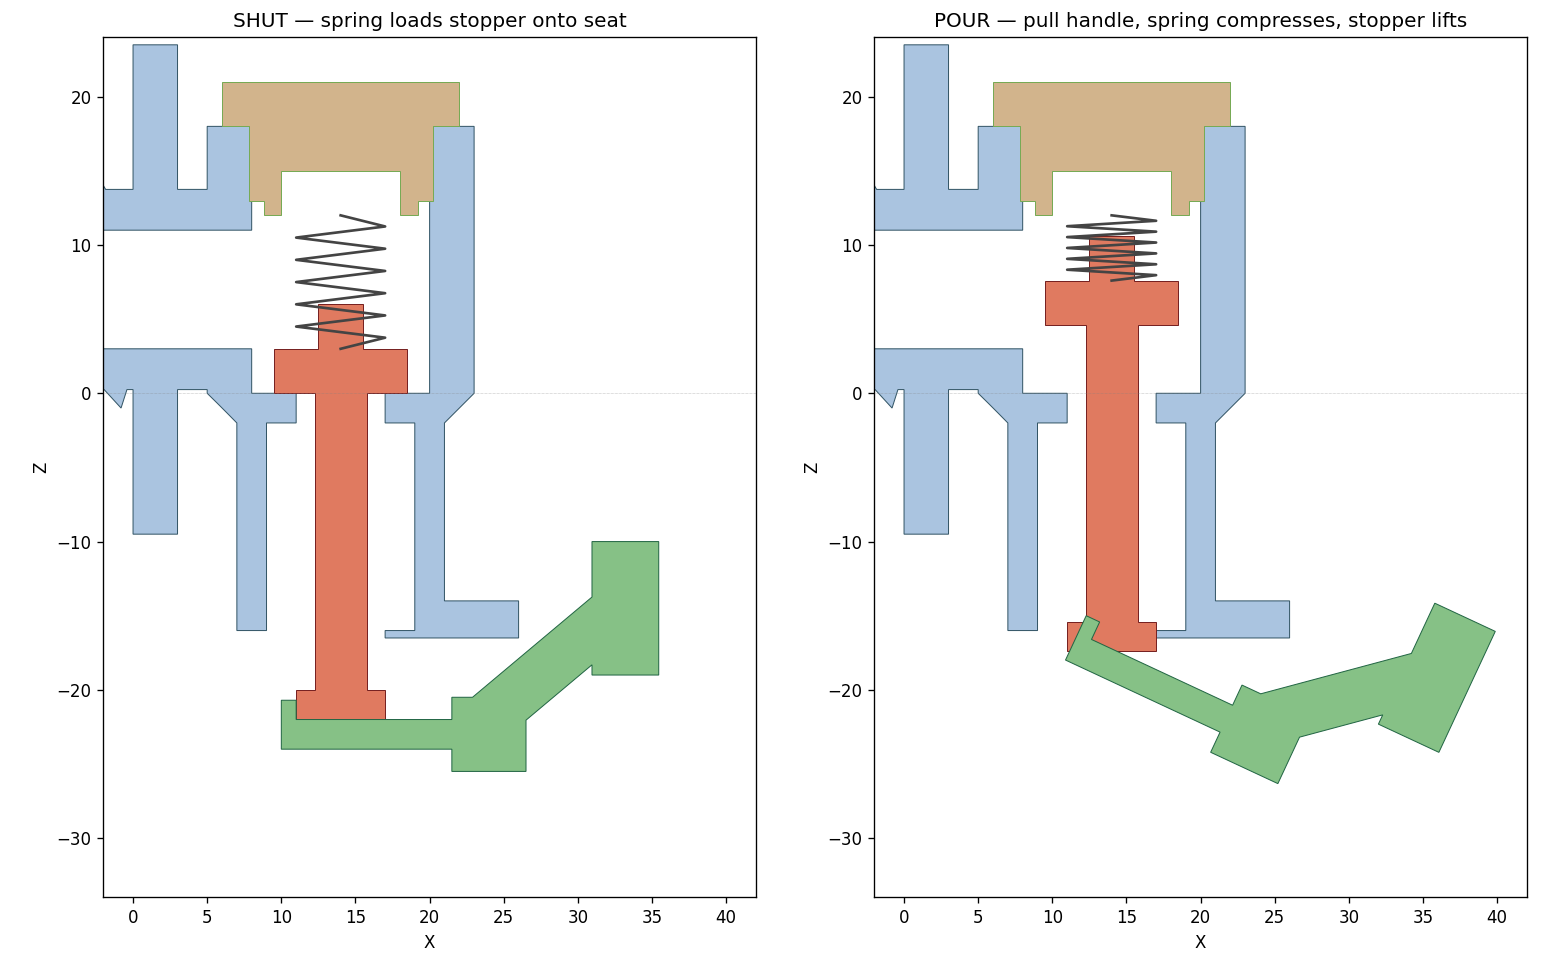
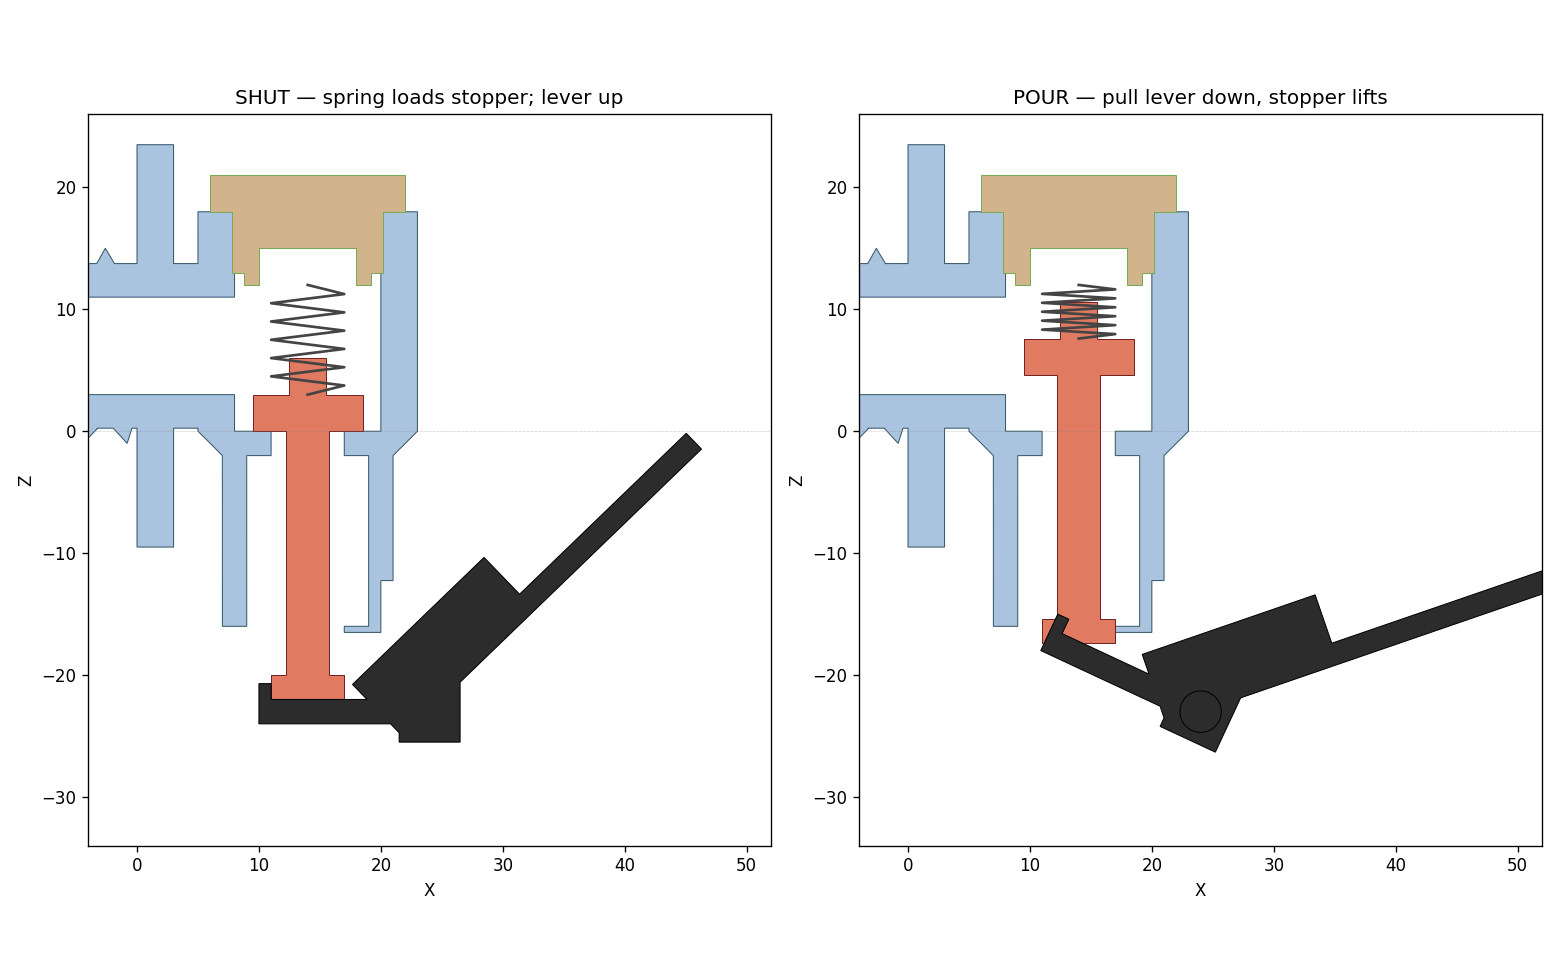
feat(pitcher-spigot): scooped tap-style lever
Reshape the boxy handle into a beverage-tap lever: a narrow neck off the
pivot (slot width, clears the yoke ears) flaring via a loft into a longer,
wide scooped paddle with a concave trough and side rails. Notch the yoke
web over the slot so the neck rises out cleanly (the ears still tie to the
spout via the web at X<21). Verified: single watertight body, pin passes
through both ears + lever, seat unaffected, zero collision across the full
lever swing.

diff --git a/projects/pitcher-spigot-valve/3d/lever.py b/projects/pitcher-spigot-valve/3d/lever.py
@@ -6,13 +6,17 @@ and the arm lifts the foot off the seat → pours. Release and the stopper's own
 weight pushes the arm back down, returning the handle up → shuts. The handle
 length gives the leverage to lift the stopper against the water above it.
 
+The handle is shaped like a beverage-tap lever: a narrow neck off the pivot
+(slot-width, so it clears the yoke ears) flaring into a wide scooped paddle.
+
 Built at the assembled position (pivot matches valve_body PIVOT_X / PIVOT_Z).
-Prints flat on its wide Y face — no supports.
+Print on its side (a wide Y face on the bed); the shallow scoop trough may want
+light support, which peels off the grip face cleanly.
 """
 
 from pathlib import Path
 
-from build123d import Align, Box, Cylinder, Pos, Rot, export_stl
+from build123d import Align, Box, Cylinder, Plane, Pos, Rectangle, Rot, export_stl, loft
 
 # ─── Parameters (mm) — pivot matches valve_body.py ──
 PIVOT_X = 24.0
@@ -36,15 +40,44 @@ arm = Pos((ARM_X0 + PIVOT_X + 0.5) / 2, 0, ARM_TOP_Z - 1) * Box(
 # slot, +X by the arm body. Low enough to clear the spout on an over-pull.
 CW = 1.3  # wall height above the arm top
 cradle_back = Pos(ARM_X0 + 0.5, 0, ARM_TOP_Z - 1 + CW / 2) * Box(1.0, 2 * ARM_HALF_Y, 2 + CW)
-# Handle: one bar tilted up-and-out, its lower end buried in the boss.
-handle = Pos(PIVOT_X + 4, 0, PIVOT_Z + 4.5) * Rot(0, -40, 0) * Box(14, 2 * ARM_HALF_Y, 3.5)
-# Paddle grip at the handle tip.
-paddle = Pos(PIVOT_X + 9.2, 0, PIVOT_Z + 8.5) * Box(4.5, 2 * (ARM_HALF_Y + 1.5), 9)
+# ── Scooped paddle handle, shaped like a beverage-tap lever ──
+# A narrow NECK comes off the pivot at slot width (so it clears the yoke ears),
+# then flares into a wide scooped head once it has risen above the ears.
+PADDLE_LEN = 34.0
+NECK_X = 15.0  # stays slot-width until here (clears the ears), then flares
+TILT = 44.0  # angle up-and-out from horizontal
+PADDLE_T = 6.0
+SCOOP_R = 12.0
+FLOOR_T = 1.8  # trough floor left under the scoop
+HALF_NECK = ARM_HALF_Y  # 3.8 — fits the yoke slot
+HALF_TIP = 8.0  # half-width at the flared tip
 
-lever = boss + arm + cradle_back + handle + paddle
+
+def _xsec(half_w):
+    return Plane.YZ * Rectangle(2 * half_w, PADDLE_T, align=(Align.CENTER, Align.MIN))
+
+
+# Loft: slot-width neck (two sections) then flare to the wide head.
+_slab = loft(
+    [
+        _xsec(HALF_NECK),
+        Pos(NECK_X, 0, 0) * _xsec(HALF_NECK),
+        Pos(PADDLE_LEN, 0, 0) * _xsec(HALF_TIP),
+    ]
+)
+# Scoop a trough into the flared head only (cylinder along the length).
+_scoop = Pos((NECK_X + PADDLE_LEN) / 2, 0, FLOOR_T + SCOOP_R) * (
+    Rot(0, 90, 0) * Cylinder(SCOOP_R, PADDLE_LEN - NECK_X)
+)
+_paddle = _slab - _scoop
+# Tilt up-and-out and bury the back in the boss.
+handle = Pos(PIVOT_X, 0, PIVOT_Z) * Rot(0, -TILT, 0) * Pos(-3, 0, 0) * _paddle
+
+lever = boss + arm + cradle_back + handle
 # Pin hole all the way through the boss — centred on Y (a rotated align=BOTTOM
-# cylinder would only drill halfway, leaving a blind hole).
-pin_hole = Pos(PIVOT_X, 0, PIVOT_Z) * (Rot(90, 0, 0) * Cylinder(HOLE_R, 8))
+# cylinder would only drill halfway, leaving a blind hole). Long enough to clear
+# the paddle stem that overlaps the boss.
+pin_hole = Pos(PIVOT_X, 0, PIVOT_Z) * (Rot(90, 0, 0) * Cylinder(HOLE_R, 11))
 lever -= pin_hole
 
 # ─── Export ──

diff --git a/projects/pitcher-spigot-valve/3d/valve_body.py b/projects/pitcher-spigot-valve/3d/valve_body.py
@@ -115,8 +115,12 @@ feed = Pos(BARREL_X0 - 1, 0, Z_IN) * (Rot(0, 90, 0) * Cylinder(BORE_R, STUB_LEN 
 # Pivot pin hole through BOTH yoke ears (centred on Y so it passes all the way
 # through — a rotated align=BOTTOM cylinder would only drill one side).
 pivot_hole = Pos(PIVOT_X, 0, PIVOT_Z) * (Rot(90, 0, 0) * Cylinder(PIN_R, 18))
+# Open the slot up through the yoke web (centre only) over the +X half so the
+# lever's neck can rise out — the ears still tie to the spout via the web at
+# X<21, which is untouched.
+handle_clear = Pos(23.75, 0, -14.75) * Box(7.5, 2 * 4.0, 5.0)
 
-body = solid - cavity - spout_bore - seat_hole - feed - pivot_hole
+body = solid - cavity - spout_bore - seat_hole - feed - pivot_hole - handle_clear
 
 # ─── Export ──
 out_dir = Path(__file__).parent / "out"
